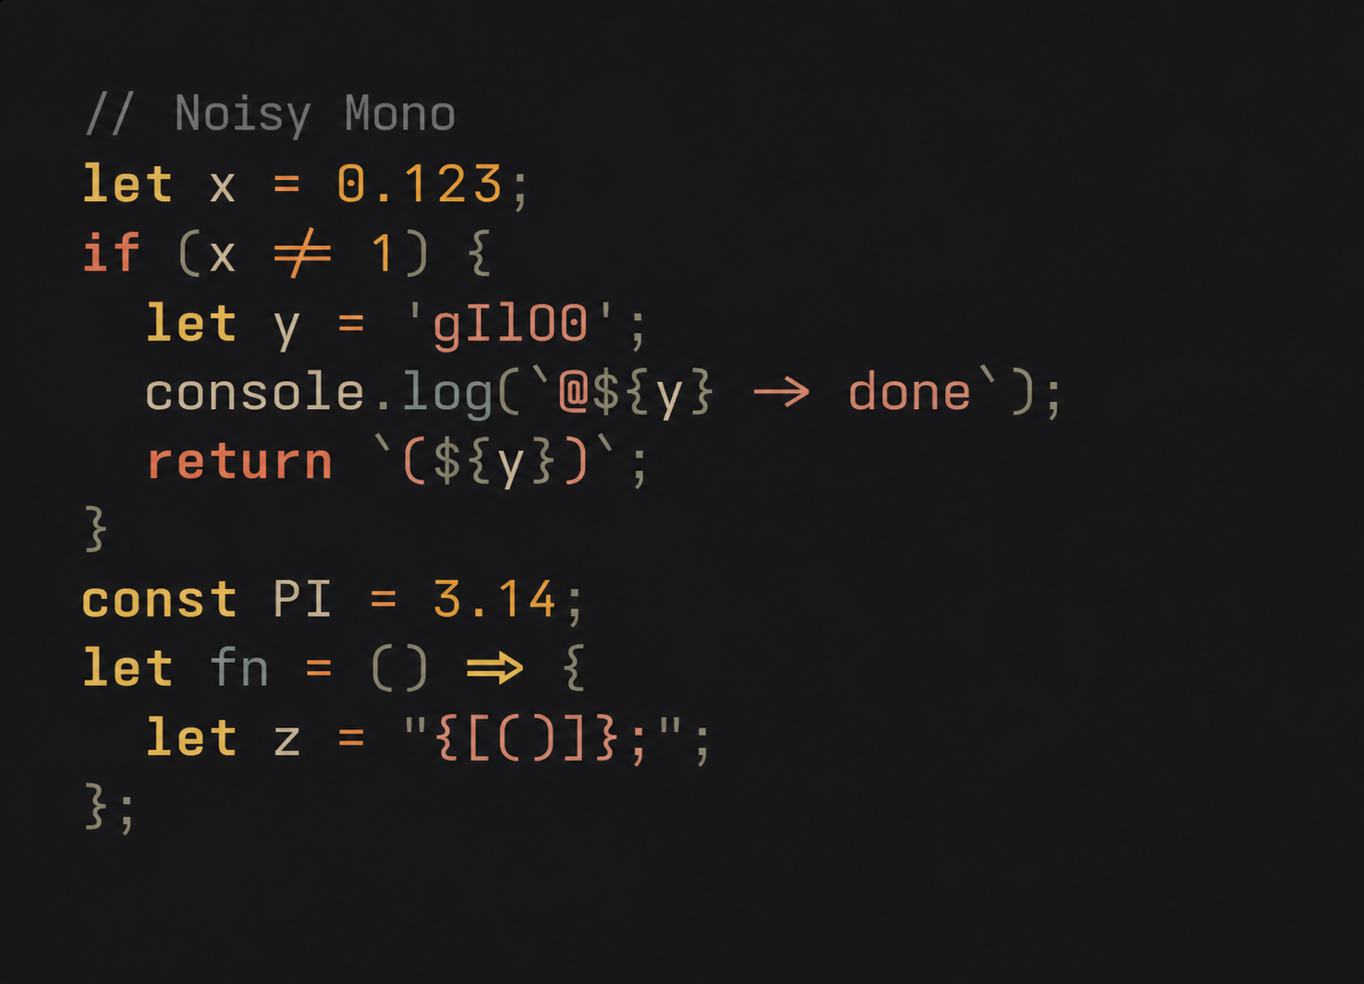
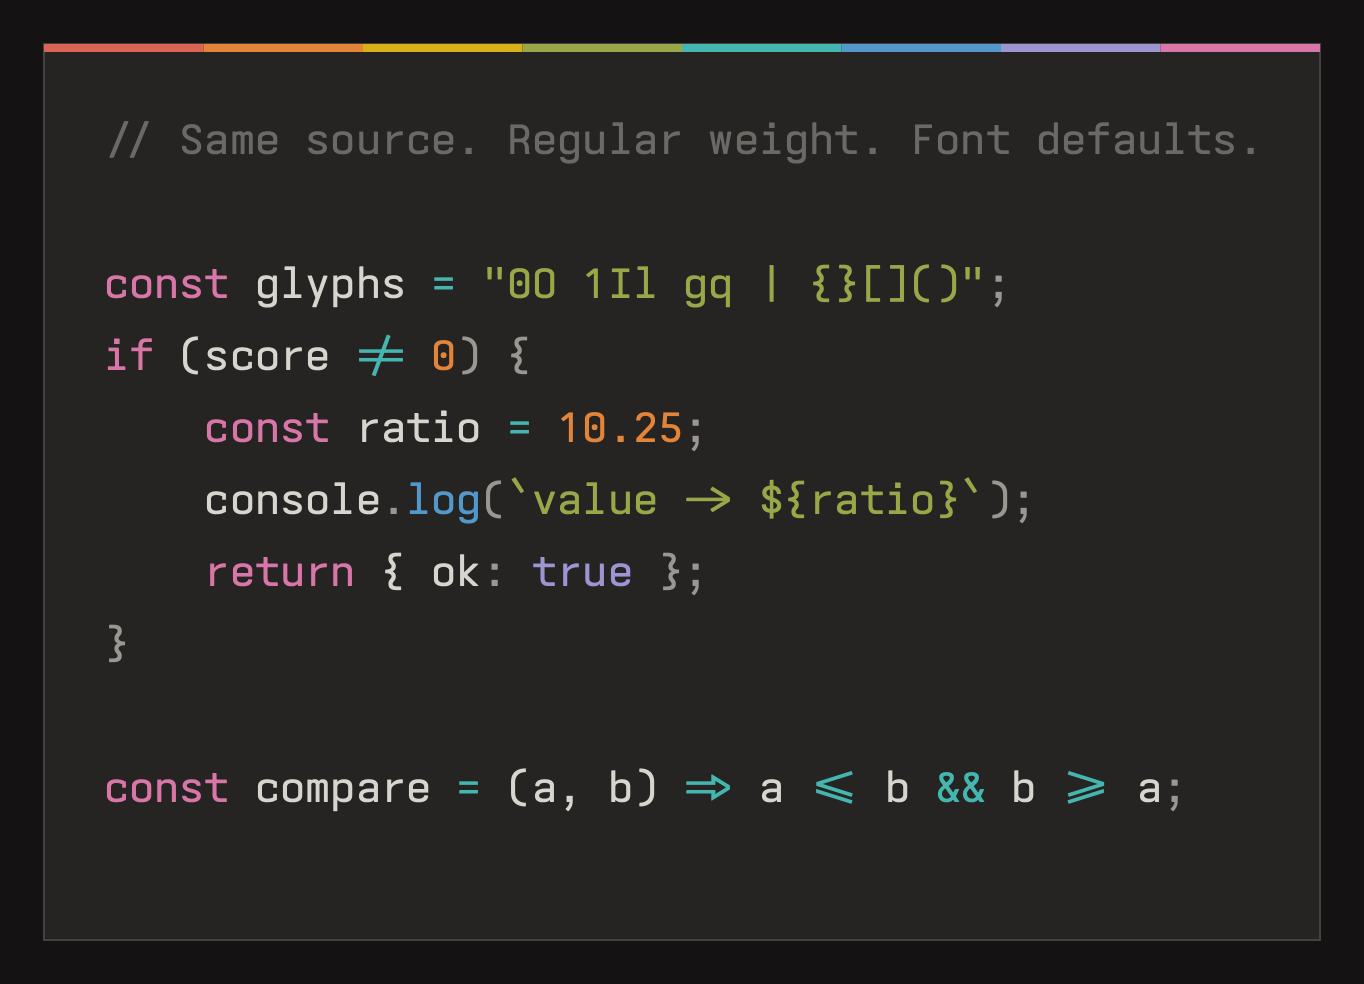
fixes for showcase sample images

diff --git a/scripts/render-comparison.swift b/scripts/render-comparison.swift
@@ -1,0 +1,207 @@
+import CoreGraphics
+import CoreText
+import Foundation
+import ImageIO
+import UniformTypeIdentifiers
+
+struct Token {
+    let text: String
+    let color: CGColor
+}
+
+func rgb(_ hex: UInt32) -> CGColor {
+    let red = CGFloat((hex >> 16) & 0xff) / 255
+    let green = CGFloat((hex >> 8) & 0xff) / 255
+    let blue = CGFloat(hex & 0xff) / 255
+    return CGColor(red: red, green: green, blue: blue, alpha: 1)
+}
+
+func fail(_ message: String) -> Never {
+    FileHandle.standardError.write(Data("error: \(message)\n".utf8))
+    exit(1)
+}
+
+guard CommandLine.arguments.count == 4 else {
+    fail("usage: render-comparison.swift FONT_FILE POSTSCRIPT_NAME OUTPUT_PNG")
+}
+
+let fontURL = URL(fileURLWithPath: CommandLine.arguments[1])
+let expectedPostScriptName = CommandLine.arguments[2]
+let outputURL = URL(fileURLWithPath: CommandLine.arguments[3])
+
+var registrationError: Unmanaged<CFError>?
+if !CTFontManagerRegisterFontsForURL(fontURL as CFURL, .process, &registrationError) {
+    let description = registrationError?.takeRetainedValue().localizedDescription ?? "unknown error"
+    fail("could not register \(fontURL.lastPathComponent): \(description)")
+}
+
+let width = 1364
+let height = 984
+let fontSize: CGFloat = 42
+let font = CTFontCreateWithName(expectedPostScriptName as CFString, fontSize, nil)
+let actualPostScriptName = CTFontCopyPostScriptName(font) as String
+guard actualPostScriptName == expectedPostScriptName else {
+    fail("requested \(expectedPostScriptName), Core Text selected \(actualPostScriptName)")
+}
+
+guard let context = CGContext(
+    data: nil,
+    width: width,
+    height: height,
+    bitsPerComponent: 8,
+    bytesPerRow: 0,
+    space: CGColorSpaceCreateDeviceRGB(),
+    bitmapInfo: CGImageAlphaInfo.premultipliedLast.rawValue
+) else {
+    fail("could not create bitmap context")
+}
+
+// Flexoki Dark: https://stephango.com/flexoki
+let background = rgb(0x100F0F)
+let panel = rgb(0x1C1B1A)
+let border = rgb(0x343331)
+let text = rgb(0xCECDC3)
+let muted = rgb(0x878580)
+let faint = rgb(0x575653)
+let red = rgb(0xD14D41)
+let orange = rgb(0xDA702C)
+let yellow = rgb(0xD0A215)
+let green = rgb(0x879A39)
+let cyan = rgb(0x3AA99F)
+let blue = rgb(0x4385BE)
+let purple = rgb(0x8B7EC8)
+let magenta = rgb(0xCE5D97)
+
+context.setFillColor(background)
+context.fill(CGRect(x: 0, y: 0, width: width, height: height))
+
+let panelRect = CGRect(x: 44, y: 44, width: width - 88, height: height - 88)
+context.setFillColor(panel)
+context.fill(panelRect)
+context.setStrokeColor(border)
+context.setLineWidth(2)
+context.stroke(panelRect)
+
+let swatchWidth = panelRect.width / 8
+for (index, color) in [red, orange, yellow, green, cyan, blue, purple, magenta].enumerated() {
+    context.setFillColor(color)
+    context.fill(CGRect(
+        x: panelRect.minX + CGFloat(index) * swatchWidth,
+        y: panelRect.maxY - 8,
+        width: swatchWidth,
+        height: 8
+    ))
+}
+
+let lines: [[Token]] = [
+    [Token(text: "// Same source. Regular weight. Font defaults.", color: faint)],
+    [],
+    [
+        Token(text: "const ", color: magenta),
+        Token(text: "glyphs ", color: text),
+        Token(text: "= ", color: cyan),
+        Token(text: "\"0O 1Il gq | {}[]()\"", color: green),
+        Token(text: ";", color: muted),
+    ],
+    [
+        Token(text: "if ", color: magenta),
+        Token(text: "(score ", color: text),
+        Token(text: "!= ", color: cyan),
+        Token(text: "0", color: orange),
+        Token(text: ") {", color: muted),
+    ],
+    [
+        Token(text: "    const ", color: magenta),
+        Token(text: "ratio ", color: text),
+        Token(text: "= ", color: cyan),
+        Token(text: "10.25", color: orange),
+        Token(text: ";", color: muted),
+    ],
+    [
+        Token(text: "    console", color: text),
+        Token(text: ".", color: muted),
+        Token(text: "log", color: blue),
+        Token(text: "(", color: muted),
+        Token(text: "`value -> ${ratio}`", color: green),
+        Token(text: ");", color: muted),
+    ],
+    [
+        Token(text: "    return ", color: magenta),
+        Token(text: "{ ok", color: text),
+        Token(text: ": ", color: muted),
+        Token(text: "true", color: purple),
+        Token(text: " };", color: muted),
+    ],
+    [Token(text: "}", color: muted)],
+    [],
+    [
+        Token(text: "const ", color: magenta),
+        Token(text: "compare ", color: text),
+        Token(text: "= ", color: cyan),
+        Token(text: "(a, b) ", color: text),
+        Token(text: "=> ", color: cyan),
+        Token(text: "a ", color: text),
+        Token(text: "<= ", color: cyan),
+        Token(text: "b ", color: text),
+        Token(text: "&& ", color: cyan),
+        Token(text: "b ", color: text),
+        Token(text: ">= ", color: cyan),
+        Token(text: "a", color: text),
+        Token(text: ";", color: muted),
+    ],
+]
+
+let fontKey = NSAttributedString.Key(kCTFontAttributeName as String)
+let colorKey = NSAttributedString.Key(kCTForegroundColorAttributeName as String)
+let x: CGFloat = 104
+let firstBaseline: CGFloat = CGFloat(height) - 154
+let lineHeight: CGFloat = 72
+
+context.textMatrix = .identity
+
+for (lineIndex, tokens) in lines.enumerated() {
+    let attributed = NSMutableAttributedString()
+    for token in tokens {
+        attributed.append(NSAttributedString(
+            string: token.text,
+            attributes: [
+                fontKey: font,
+                colorKey: token.color,
+            ]
+        ))
+    }
+
+    guard attributed.length > 0 else {
+        continue
+    }
+
+    let line = CTLineCreateWithAttributedString(attributed)
+    context.textPosition = CGPoint(
+        x: x,
+        y: firstBaseline - CGFloat(lineIndex) * lineHeight
+    )
+    CTLineDraw(line, context)
+}
+
+guard let image = context.makeImage() else {
+    fail("could not create image")
+}
+
+guard let destination = CGImageDestinationCreateWithURL(
+    outputURL as CFURL,
+    UTType.png.identifier as CFString,
+    1,
+    nil
+) else {
+    fail("could not create PNG destination")
+}
+
+CGImageDestinationAddImage(destination, image, [
+    kCGImagePropertyPNGDictionary: [
+        kCGImagePropertyPNGInterlaceType: 0,
+    ],
+] as CFDictionary)
+
+guard CGImageDestinationFinalize(destination) else {
+    fail("could not write \(outputURL.path)")
+}

diff --git a/site/index.html b/site/index.html
@@ -120,7 +120,9 @@
     </div>
   </div>
   <p class="specimen-caption">
-    Legacy screenshot theme: <a href="https://marketplace.visualstudio.com/items?itemName=ahmedhatem.kintsugi" target="_blank" rel="noopener">Kintsugi Dark Flared</a>
+    Same source, canvas, size, Flexoki Dark colors, and Core Text renderer.
+    Noisy Mono Regular v34.4.0 · Berkeley Mono Regular v2.004 ·
+    <a href="imgs/comparison-provenance.json">render provenance</a>.
   </p>
 
   <hr>

diff --git a/site/css/main.css b/site/css/main.css
@@ -401,7 +401,7 @@ strong { font-weight: 600; color: var(--text); }
 .comp-item img {
   width: 100%;
   display: block;
-  aspect-ratio: 11 / 8;
+  aspect-ratio: 341 / 246;
   object-fit: cover;
 }
 .comp-label {
@@ -1221,7 +1221,7 @@ h3 {
 }
 
 .comp-item img {
-  filter: saturate(0.9);
+  filter: none;
 }
 
 .comp-label {

diff --git a/scripts/generate-comparison-images.py b/scripts/generate-comparison-images.py
@@ -1,0 +1,126 @@
+#!/usr/bin/env python3
+"""Render honest, like-for-like Noisy Mono and Berkeley Mono specimens."""
+
+from __future__ import annotations
+
+import argparse
+import json
+import os
+import shutil
+import subprocess
+import tempfile
+from pathlib import Path
+
+from fontTools.ttLib import TTFont
+
+
+ROOT = Path(__file__).resolve().parents[1]
+NOISY_WOFF2 = ROOT / "site/fonts/NoisyMono-Regular.woff2"
+SWIFT_RENDERER = ROOT / "scripts/render-comparison.swift"
+
+
+def font_names(path: Path) -> dict[str, str]:
+    font = TTFont(path)
+    names = font["name"]
+
+    def first(name_id: int) -> str:
+        for record in names.names:
+            if record.nameID == name_id:
+                return record.toUnicode()
+        raise RuntimeError(f"{path} has no name table entry {name_id}")
+
+    return {
+        "family": first(1),
+        "fullName": first(4),
+        "version": first(5),
+        "postScriptName": first(6),
+    }
+
+
+def render(font_path: Path, postscript_name: str, output_path: Path) -> None:
+    environment = os.environ.copy()
+    sdk = Path("/Library/Developer/CommandLineTools/SDKs/MacOSX15.4.sdk")
+    if sdk.is_dir():
+        environment["SDKROOT"] = str(sdk)
+    environment["SWIFT_MODULECACHE_PATH"] = "/private/tmp/noisy-mono-swift-cache"
+    environment["CLANG_MODULE_CACHE_PATH"] = "/private/tmp/noisy-mono-clang-cache"
+    subprocess.run(
+        [
+            "swift",
+            str(SWIFT_RENDERER),
+            str(font_path),
+            postscript_name,
+            str(output_path),
+        ],
+        check=True,
+        env=environment,
+    )
+
+
+def main() -> None:
+    parser = argparse.ArgumentParser()
+    parser.add_argument(
+        "--berkeley",
+        type=Path,
+        required=True,
+        help="Path to a locally licensed BerkeleyMono-Regular TTF.",
+    )
+    args = parser.parse_args()
+    berkeley_path = args.berkeley.expanduser().resolve()
+
+    if not berkeley_path.is_file():
+        parser.error(f"Berkeley font not found: {berkeley_path}")
+
+    noisy_metadata = font_names(NOISY_WOFF2)
+    berkeley_metadata = font_names(berkeley_path)
+
+    if noisy_metadata["family"] != "Noisy Mono":
+        raise RuntimeError(f"unexpected Noisy family: {noisy_metadata['family']}")
+    if berkeley_metadata["family"] != "Berkeley Mono":
+        raise RuntimeError(
+            f"expected Berkeley Mono, found {berkeley_metadata['family']}"
+        )
+
+    with tempfile.TemporaryDirectory(prefix="noisy-mono-specimen-") as temp_dir:
+        temp = Path(temp_dir)
+        noisy_ttf = temp / "NoisyMono-Regular.ttf"
+        noisy_font = TTFont(NOISY_WOFF2)
+        noisy_font.flavor = None
+        noisy_font.save(noisy_ttf)
+
+        outputs = {
+            "NoisyMono.png": (
+                noisy_ttf,
+                noisy_metadata["postScriptName"],
+            ),
+            "BerkeleyMono.png": (
+                berkeley_path,
+                berkeley_metadata["postScriptName"],
+            ),
+        }
+
+        for filename, (font_path, postscript_name) in outputs.items():
+            rendered = temp / filename
+            render(font_path, postscript_name, rendered)
+            shutil.copyfile(rendered, ROOT / "site/imgs" / filename)
+            shutil.copyfile(rendered, ROOT / "assets" / filename)
+
+    provenance = {
+        "canvas": {"width": 1364, "height": 984},
+        "fonts": {
+            "BerkeleyMono.png": berkeley_metadata,
+            "NoisyMono.png": noisy_metadata,
+        },
+        "fontSettings": "Regular weight with each font's default OpenType features",
+        "palette": "Flexoki Dark",
+        "renderer": "macOS Core Text",
+        "source": "scripts/render-comparison.swift",
+    }
+    (ROOT / "site/imgs/comparison-provenance.json").write_text(
+        json.dumps(provenance, indent=2, sort_keys=True) + "\n",
+        encoding="utf-8",
+    )
+
+
+if __name__ == "__main__":
+    main()

diff --git a/README.md b/README.md
@@ -23,7 +23,12 @@ See Noisy Mono in action with real-time editable samples, multiple programming l
 | --- | --- |
 | ![Noisy Mono Sample](assets/NoisyMono.png) | ![Berkeley Mono Sample](assets/BerkeleyMono.png) |
 
-> Theme: [Kintsugi Dark Flared](https://marketplace.visualstudio.com/items?itemName=ahmedhatem.kintsugi)
+> Rendered from the same source with the same canvas, size, Flexoki Dark
+> colors, and macOS Core Text renderer. The committed comparison uses Noisy
+> Mono Regular v34.4.0 and a locally licensed Berkeley Mono Regular v2.004;
+> no Berkeley font files are distributed by this repository. Exact render
+> metadata is recorded in
+> [`site/imgs/comparison-provenance.json`](site/imgs/comparison-provenance.json).
 
 ![Noisy Mono in Action](assets/InAction.png)
 
